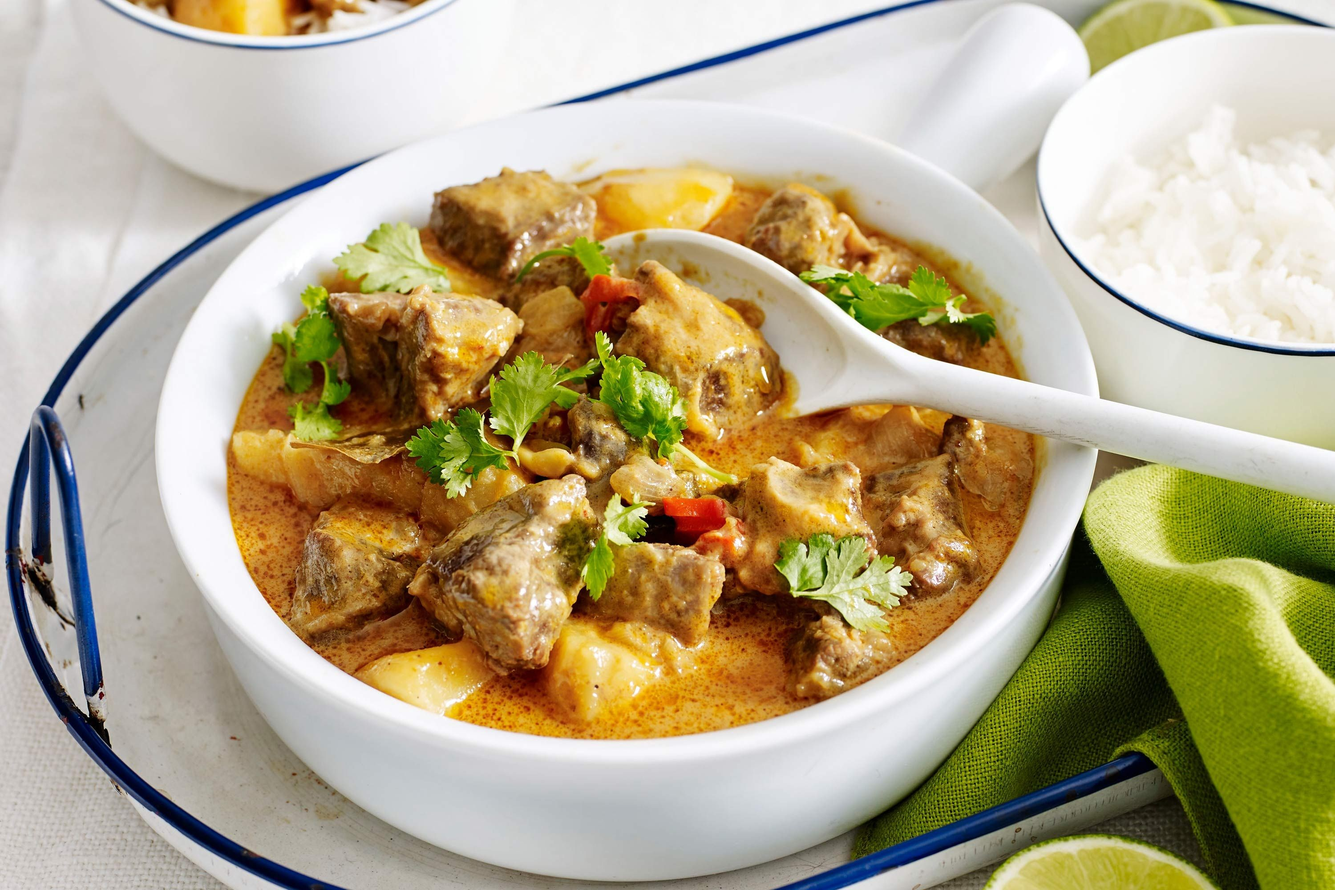
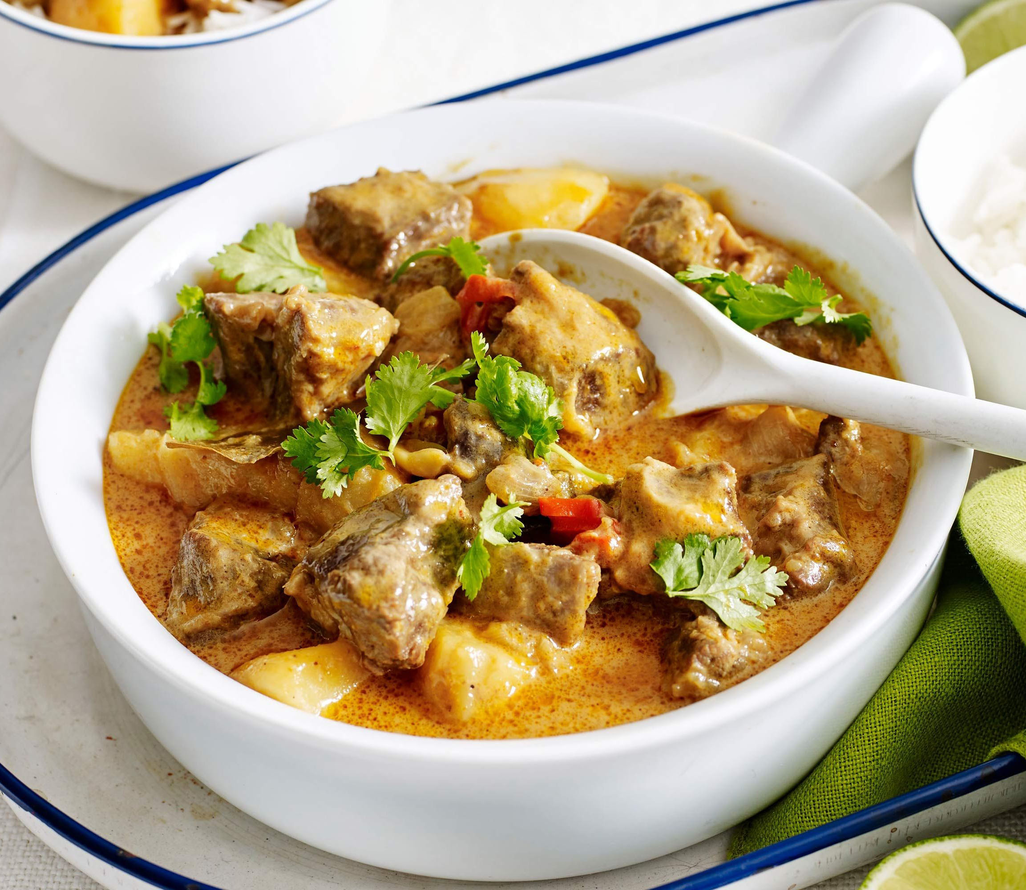
Chicken almost done

diff --git a/01 Chicken-Beef/beef massaman curry.html b/01 Chicken-Beef/beef massaman curry.html
@@ -1,48 +1,108 @@
 <!DOCTYPE html>
-<html>
+<html lang="en">
     <head>
-        <title>CSS Exercises 1</title>
+        <title>TheRecipeLab</title>
 
-        <style>
-        </style>
-        
-        <link rel="stylesheet" type="text/css" href="style.css">
+  <meta charset="utf-8">
+  <meta http-equiv="X-UA-Compatible" content="IE=edge">
+  <meta name="viewport" content="width=device-width, initial-scale=1" />
+  <meta name="viewport" content="width=device-width, initial-scale=1">
+  <link rel="stylesheet" href="https://maxcdn.bootstrapcdn.com/bootstrap/3.3.7/css/bootstrap.min.css">
+  <script src="https://ajax.googleapis.com/ajax/libs/jquery/3.2.0/jquery.min.js"></script>
+  <script src="https://maxcdn.bootstrapcdn.com/bootstrap/3.3.7/js/bootstrap.min.js"></script>
+    <script src="./methods.js"></script>
+
+
+        <link rel="stylesheet" type="text/css" href="style3.css">
+
+        <link href="https://fonts.googleapis.com/css?family=Architects+Daughter|Cabin+Sketch" rel="stylesheet">
+
+        <link rel="stylesheet" href="https://cdnjs.cloudflare.com/ajax/libs/font-awesome/4.7.0/css/font-awesome.min.css">
     </head>
+
     <body>
-        <h1>Beef Massaman Curry</h1>
-        <img src="beef massaman curry.jpeg" alt="Curry in a bowl" width="150" height="150">
-        <img 
+   
+    <br>
+  <meta charset="utf-8">
+  <meta name="viewport" content="width=device-width, initial-scale=1.0">
+  <link rel="stylesheet" href="https://maxcdn.bootstrapcdn.com/bootstrap/3.3.7/css/bootstrap.min.css">
+    <br>
 
-        <h2>Ingredients</h2>
+<h1><b>The Recipe Lab</b></h1>
 
-        <ul>
-            <li>85g unsalted peanuts</li>
-            <li>400ml can coconut milk</li>
-            <li>4 tbsp massaman curry paste </li>
-            <li>600g stewing beef steak, cut into large chunks</li>
-            <li>450g waxy potatoes, cut into 2½ cm chunks</li>
-            <li>1 onion, cut into thin wedges</li>
-            <li>4 kaffir lime leaves</li>
-            <li>1 cinnamon stick</li>
-            <li>1 tbsp tamarind paste</li>
-            <li>1 tbsp palm or soft light brown sugar</li>
-            <li>1 tbsp fish sauce</li>
-            <li>1 red chilli, deseeded and finely sliced, to serve</li>
-            <li>jasmine rice, to serve</li>
+<ul class="header">
+  <i class="fa fa-home" style="font-size:25px;color:white;"></i>
+  <i class="fa fa-bars" style="font-size:25px;color:white;"></i>
+</ul> 
 
-            
-        </ul>
+ <div class="container">
 
-        <h2>Method</h2>
+<body>
 
+  <div class='col-sm-6'>
+    <img src="beef massaman curry.jpeg">
+  </div>
+
+  <div class='col-sm-6'>
+
+      <h2>Beef Massaman Curry</h2>
+      
+        <p class="description"></p>
+    
+    <table style="width:100%">
+      <tr class="Level">
+        <th>
+         <img src='food-variant.png'/><p class='liketext'>Easy</p> </th>
+        <th>
+         <img src='account.png'/><p class='liketext'>6 servings</p> </th>
+        <th>
+         <img src='clock.png'/><p class='liketext'>25 minutes</p> </th>
+      </tr>
+    </table>
+
+    <h3>Ingredients:</h3>
+        <div class="All-ingredients">
+          <div class='col-sm-6'>
+            <p>85g unsalted peanuts</p>
+            <p>400ml can coconut milk</p>
+            <p>4 tbsp massaman curry paste</p>
+            <p>600g stewing beef steak</p>
+            <p>450g waxy potatoes,</li>
+            <p>1 onion, cut in thin wedges</p>
+            <p>4 kaffir lime leaves</p>
+           </div>
+
+          <div class='col-sm-6'>
+            <p>1 cinnamon stick</p>
+            <p>1 tbsp tamarind paste</p>
+            <p>1 tbsp palm or brown sugar</p>
+            <p>1 tbsp fish sauce</p>
+            <p>1 red chilli, finely sliced</p>
+            <p>Jasmine rice, to serve</p>
+          </div>
+    </div>
+    </div>
+</div>
+
+<div class="container">
+<div class="jumbotron">
+
+    <h4>Method:</h4>
+    <div class="steps">
+        <p>1. Heat oven to 200C/180C fan/gas 6, then roast the peanuts on a baking tray for 5 mins until golden brown. When cool enough to handle, roughly chop. Reduce oven to 180C/160C fan/gas.</p>
+
+        <p>2. Heat 2 tbsp coconut milk (use the cream on top if there is any) in a large casserole dish with a lid. Add the curry paste and fry for 1 min, then stir in the beef and fry until well coated and sealed.</p>
+
+        <p>3. Stir in the rest of the coconut with half a can of water, the potatoes, onion, lime leaves, cinnamon, tamarind, sugar, fish sauce and most of the peanuts. Bring to a simmer, then cover and cook for 2 hrs in the oven until the beef is tender.</p>
+
+        <p>4. Sprinkle with sliced chilli and the remaining peanuts, then serve straight from the dish with jasmine rice.</p>
+    </div>
+    </div>
         
-        <ol>
-            <li>Heat oven to 200C/180C fan/gas 6, then roast the peanuts on a baking tray for 5 mins until golden brown. When cool enough to handle, roughly chop. Reduce oven to 180C/160C fan/gas 4.</li>
-            <li>Heat 2 tbsp coconut milk (use the cream on top if there is any) in a large casserole dish with a lid. Add the curry paste and fry for 1 min, then stir in the beef and fry until well coated and sealed. </li>
-            <li>Stir in the rest of the coconut with half a can of water, the potatoes, onion, lime leaves, cinnamon, tamarind, sugar, fish sauce and most of the peanuts. Bring to a simmer, then cover and cook for 2 hrs in the oven until the beef is tender.</li>
-            <li>Sprinkle with sliced chilli and the remaining peanuts, then serve straight from the dish with jasmine rice.</li>            
+    <script src="https://ajax.googleapis.com/ajax/libs/jquery/1.12.4/jquery.min.js"></script>
+    <script src="https://maxcdn.bootstrapcdn.com/bootstrap/3.3.7/js/bootstrap.min.js" integrity="sha384-Tc5IQib027qvyjSMfHjOMaLkfuWVxZxUPnCJA7l2mCWNIpG9mGCD8wGNIcPD7Txa" crossorigin="anonymous"></script>
 
-        </ol>
 
-    </body>
-</html>
+</div>
+</body>
+

diff --git a/01 Chicken-Beef/butter chicken.html b/01 Chicken-Beef/butter chicken.html
@@ -1,45 +1,113 @@
 <!DOCTYPE html>
-<html>
+<html lang="en">
     <head>
-        <title>CSS Exercises 1</title>
+        <title>TheRecipeLab</title>
 
-        <link rel="stylesheet" type="text/css" href="style.css">
+  <meta charset="utf-8">
+  <meta http-equiv="X-UA-Compatible" content="IE=edge">
+  <meta name="viewport" content="width=device-width, initial-scale=1" />
+  <meta name="viewport" content="width=device-width, initial-scale=1">
+  <link rel="stylesheet" href="https://maxcdn.bootstrapcdn.com/bootstrap/3.3.7/css/bootstrap.min.css">
+  <script src="https://ajax.googleapis.com/ajax/libs/jquery/3.2.0/jquery.min.js"></script>
+  <script src="https://maxcdn.bootstrapcdn.com/bootstrap/3.3.7/js/bootstrap.min.js"></script>
+    <script src="./methods.js"></script>
+
+
+        <link rel="stylesheet" type="text/css" href="style3.css">
+
+        <link href="https://fonts.googleapis.com/css?family=Architects+Daughter|Cabin+Sketch" rel="stylesheet">
+
+        <link rel="stylesheet" href="https://cdnjs.cloudflare.com/ajax/libs/font-awesome/4.7.0/css/font-awesome.min.css">
     </head>
+
     <body>
-        <h1>Butter Chicken</h1>
+   
+    <br>
+  <meta charset="utf-8">
+  <meta name="viewport" content="width=device-width, initial-scale=1.0">
+  <link rel="stylesheet" href="https://maxcdn.bootstrapcdn.com/bootstrap/3.3.7/css/bootstrap.min.css">
+    <br>
 
-        <h2>Ingredients</h2>
+<h1><b>The Recipe Lab</b></h1>
 
-        <ul>
-            <li>1 ounce butter</li>
-            <li>1 onion, chopped</li>
-            <li>1 garlic clove, crushed</li>
-            <li>2 large boneless chicken breasts</li>
-            <li>1 teaspoon ginger</li>
-            <li>1 teaspoon chili powder</li>
-            <li>1 teaspoon turmeric</li>
-            <li>1 teaspoon cinnamon</li>
-            <li>1 teaspoon salt</li>
-            <li>3⁄4 cup fresh cream</li>
-            <li>1 tablespoon tomato paste</li>
-            <li>1⁄2 teaspoon garam masala</li>
+<ul class="header">
+  <i class="fa fa-home" style="font-size:25px;color:white;"></i>
+  <i class="fa fa-bars" style="font-size:25px;color:white;"></i>
+</ul> 
 
-            
-        </ul>
+ <div class="container">
 
-        <h2>Step</h2>
+<body>
 
+  <div class='col-sm-6'>
+    <img src="butterchicken.jpg">
+  </div>
+
+  <div class='col-sm-6'>
+
+      <h2>Butter Chicken</h2>
+      
+        <p class="description"></p>
+    
+    <table style="width:100%">
+      <tr class="Level">
+        <th>
+         <img src='food-variant.png'/><p class='liketext'>Easy</p> </th>
+        <th>
+         <img src='account.png'/><p class='liketext'>4 servings</p> </th>
+        <th>
+         <img src='clock.png'/><p class='liketext'>40 minutes</p> </th>
+      </tr>
+    </table>
+
+    <h3>Ingredients:</h3>
+        <div class="All-ingredients">
+          <div class='col-sm-6'>
+            <p>1 ounce butter</p>
+            <p>1 onion, chopped</p>
+            <p>1 garlic clove, crushed</p>
+            <p>2 boneless chicken breasts</p>
+            <p>1 teaspoon ginger</li>
+            <p>1 teaspoon chili powder</p>
+           </div>
+
+          <div class='col-sm-6'>
+            <p>1 teaspoon turmeric</p>
+            <p>1 teaspoon cinnamon</p>
+            <p>1 teaspoon salt</p>
+            <p>3⁄4 cup fresh cream</p>
+            <p>1 tablespoon tomato paste</p>
+            <p>1⁄2 teaspoon garam masala</p>
+          </div>
+    </div>
+    </div>
+</div>
+
+<div class="container">
+<div class="jumbotron">
+
+    <h4>Method:</h4>
+    <div class="steps">
+        <p>1. Saute onion and garlic in butter.</p>
+
+        <p>2. Slice chicken breasts into bite sized pieces.</p>
+
+        <p>3. Combine spices and salt and toss chicken pieces until well coated.</p>
+
+        <p>4. Saute the chicken each side until golden brown.</p>
+
+        <p>5. Stir in the cream and tomato paste.</p>
+
+        <p>6. Cover pan and simmer for about 10 minutes until cooked through.</p>
+
+        <p>7. Sprinkle with garam masala.</p>
+    </div>
+    </div>
         
-        <ol>
-            <li>Saute onion and garlic in butter.</li>
-            <li>Slice chicken breasts into bite sized pieces.</li>
-            <li>Combine spices and salt and toss chicken pieces until well coated.</li>
-            <li>Saute the chicken each side until golden brown.</li>
-            <li>Stir in the cream and tomato paste.</li>
-            <li>Cover pan and simmer for about 10 minutes until cooked through.</li>
-            <li>Sprinkle with garam masala.</li>
+    <script src="https://ajax.googleapis.com/ajax/libs/jquery/1.12.4/jquery.min.js"></script>
+    <script src="https://maxcdn.bootstrapcdn.com/bootstrap/3.3.7/js/bootstrap.min.js" integrity="sha384-Tc5IQib027qvyjSMfHjOMaLkfuWVxZxUPnCJA7l2mCWNIpG9mGCD8wGNIcPD7Txa" crossorigin="anonymous"></script>
 
-        </ol>
 
-    </body>
-</html>
+</div>
+</body>
+

diff --git a/01 Chicken-Beef/style3.css b/01 Chicken-Beef/style3.css
@@ -32,7 +32,7 @@ i {
 		font-size: 70px;
 		font-weight: 300;}
 img {
-  padding-top: 40px;
+  padding-top: 20px;
   width: auto ;
   max-width: 100% ;
   height: auto;

diff --git a/style3.css b/style3.css
@@ -32,7 +32,7 @@ i {
 		font-size: 70px;
 		font-weight: 300;}
 img {
-  padding-top: 40px;
+  padding-top: 20px;
   width: auto ;
   max-width: 100% ;
   height: auto;
